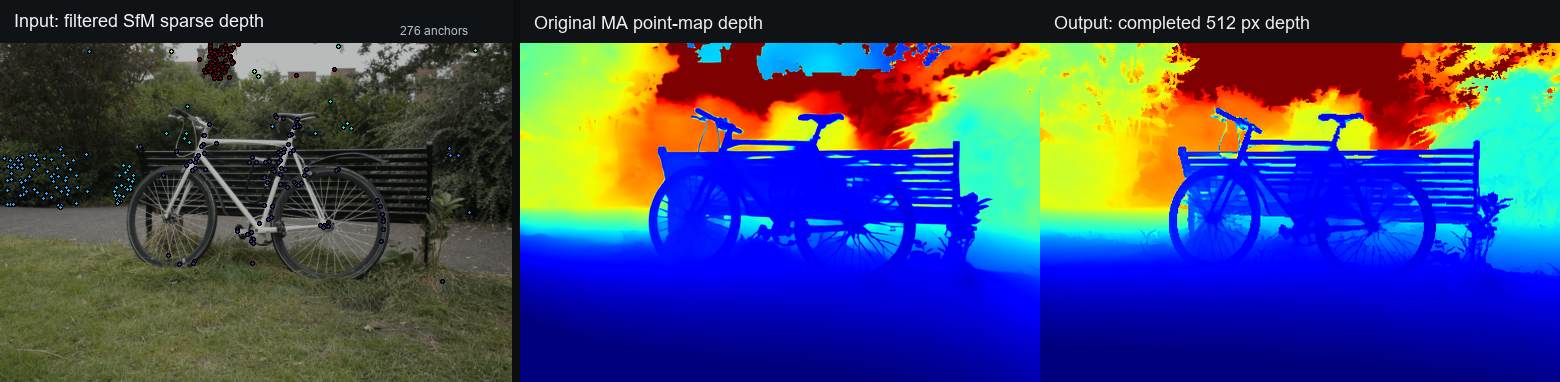
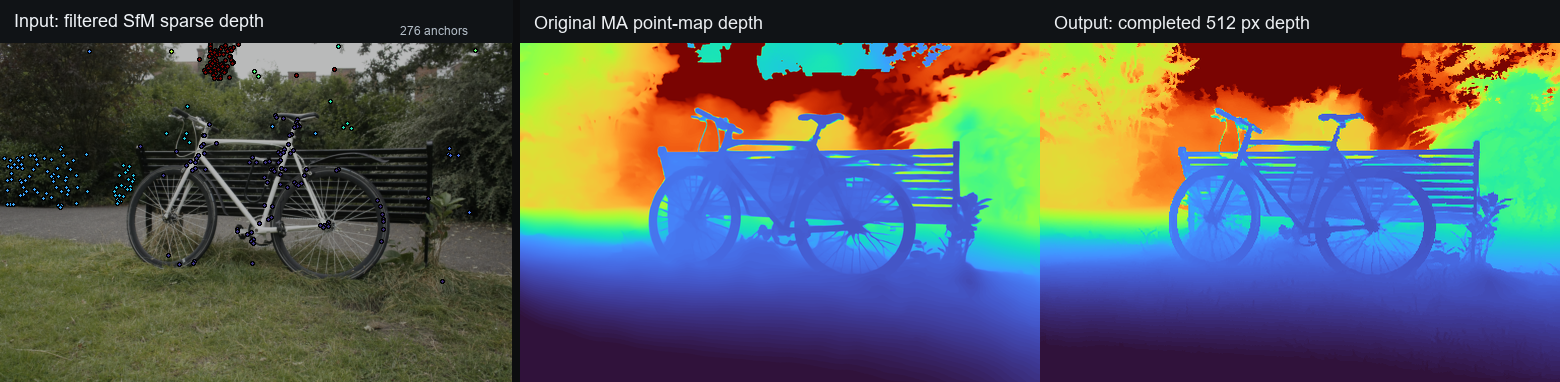
Use Turbo colormap in README comparison

diff --git a/README.md b/README.md
@@ -8,7 +8,7 @@
   <img src="docs/assets/bicycle_sparse_vs_completed.png" alt="Sparse bicycle COLMAP/SfM depth anchors, original Metric-Anything point-map depth result, and completed OMNI-DC-MA depth map" width="100%">
 </p>
 
-<p align="center"><em>Example bicycle frame: globally filtered sparse metric SfM anchors projected to 2D, the original Metric-Anything point-map depth result, and the regenerated 512 px OMNI-DC-MA completed depth map. Both depth panels use the same jet color map and shared percentile scale.</em></p>
+<p align="center"><em>Example bicycle frame: globally filtered sparse metric SfM anchors projected to 2D, the original Metric-Anything point-map depth result, and the regenerated 512 px OMNI-DC-MA completed depth map. Both depth panels use the same Turbo color map and shared percentile scale.</em></p>
 
 ## What This Repo Is For
 